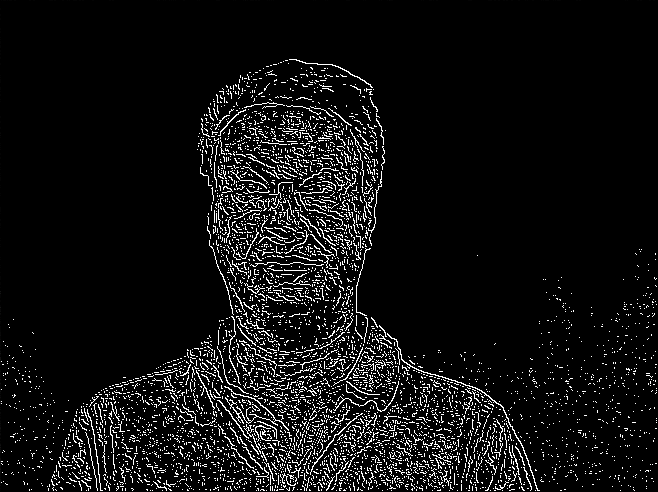
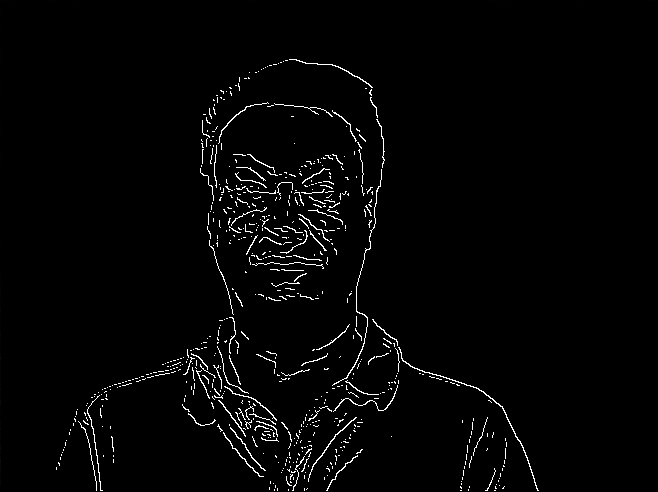
Specifiable thresholds and image blurring

Changed region(s): [[0.0912, 0.1829, 0.8207, 1.0], [0.4559, 0.1524, 0.5167, 0.1829], [0.0608, 0.9756, 0.0912, 1.0]]

diff --git a/main.py b/main.py
@@ -19,8 +19,8 @@ def main(argv):
         sys.exit(2)
     
     # assume a square kernel
-    kernel_size = 20
-    sigma = 5
+    kernel_size = 5
+    sigma = 1
     image = 'test/test_img001.png'
     verbose = False
     noise = 0
@@ -69,23 +69,35 @@ def main(argv):
     # Force kernels to be odd
     if kernel_size % 2 == 0:
         kernel_size = kernel_size + 1
+        
+    G = Gaussian2D(kernel_size, sigma)
+    pad_amount = int((kernel_size-1))
     
-    # load reference images
+    # load and blur reference images
+    start = timer()
     refs = []
     for filename in os.listdir("ref/"):
-        refs.append(cv2.cvtColor(cv2.imread("ref/" + filename, cv2.IMREAD_COLOR), cv2.COLOR_BGR2GRAY))
+        img = cv2.cvtColor(cv2.imread("ref/" + filename, cv2.IMREAD_COLOR), cv2.COLOR_BGR2GRAY)
+        pad = pad_array(img, pad_amount)
+        refs.append((image_filter2d(pad, G)[pad_amount:pad_amount+img.shape[0], pad_amount:pad_amount+img.shape[1]]).round(decimals=2))
+    
+    # load test image
+    img = cv2.imread(image, cv2.IMREAD_GRAYSCALE)
+    pad = pad_array(img, pad_amount)
+    x = (image_filter2d(pad, G)[pad_amount:pad_amount+img.shape[0], pad_amount:pad_amount+img.shape[1]]).round(decimals=2)
+    end = timer()
+    log("Time taken for loading and pre-processing images: {}".format(end-start))
     
     # build r-table
     start = timer()
-    table = buildRtable(refs, (140,180), verbose)
+    table = buildRtable(refs, (140,180), (50,40), verbose)
     end = timer()
     log("Time taken to build r-table: {}".format(end-start))
     
     
     # build accumulator
-    img = cv2.imread(image, cv2.IMREAD_GRAYSCALE)
     start = timer()
-    accum = genAccumulator(img, table, verbose)
+    accum = genAccumulator(x, table, (50,40), verbose)
     end = timer()
     log("Time taken to build accumulator: {}".format(end-start))
     

diff --git a/utils.py b/utils.py
@@ -152,12 +152,12 @@ def neighbors(image, p, connectedness=8):
     return n
     
     
-def buildRtable(images, point, verbose=False):
+def buildRtable(images, point, threshold, verbose=False):
     r_table = {}
+    index = 0
     for img in images:
         # gradient calculations
         phi,M = gradient_calc(img)
-        threshold = (40, 20)
         
         # we can ready some queues for threshold information
         strong_queue = []
@@ -216,7 +216,8 @@ def buildRtable(images, point, verbose=False):
             N[px[0], px[1]] = 0
             
         if verbose:
-            cv2.imwrite("out/ref_edges.png", N)
+            cv2.imwrite("out/{}_ref_edges.png".format(index), N)
+        index +=1
             
         # build r-table
         for i in range(0, N.shape[0]):
@@ -234,11 +235,10 @@ def buildRtable(images, point, verbose=False):
     return r_table
     
     
-def genAccumulator(image, r_table, verbose=False):
+def genAccumulator(image, r_table, threshold, verbose=False):
     ''' Find boundaries in image '''
     # gradient calculations
     phi,M = gradient_calc(image)
-    threshold = (40, 20)
     
     # we can ready some queues for threshold information
     strong_queue = []
